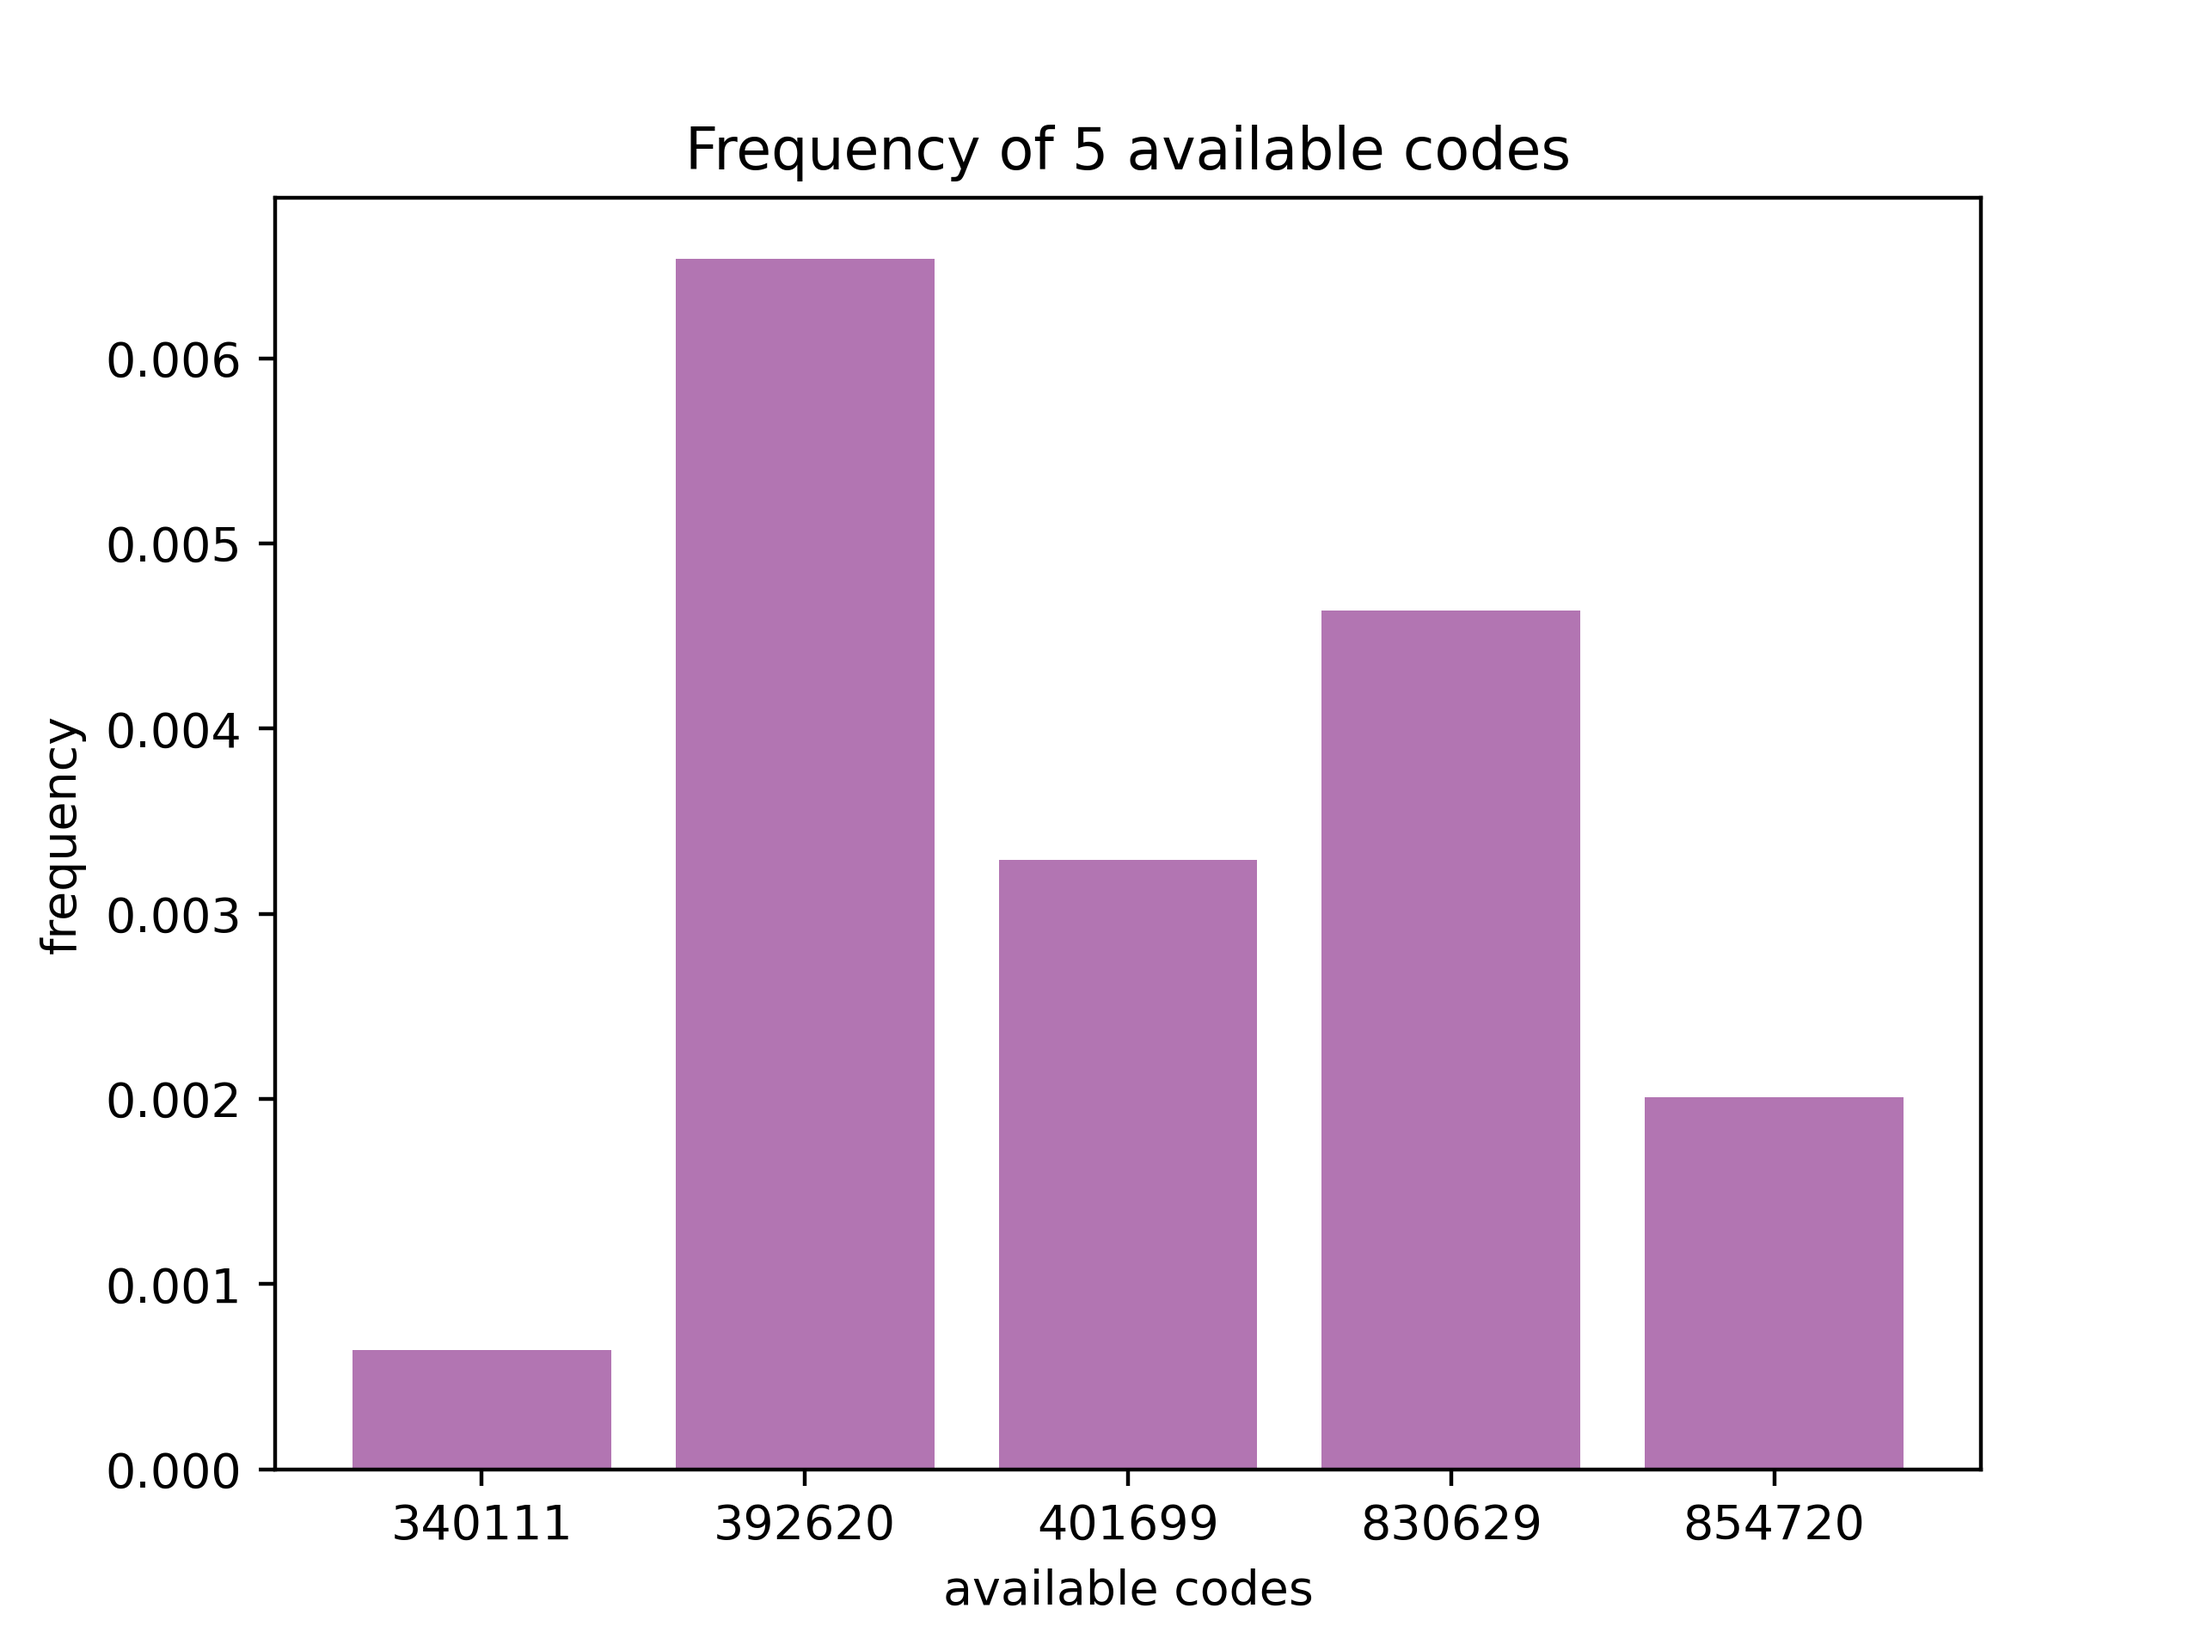
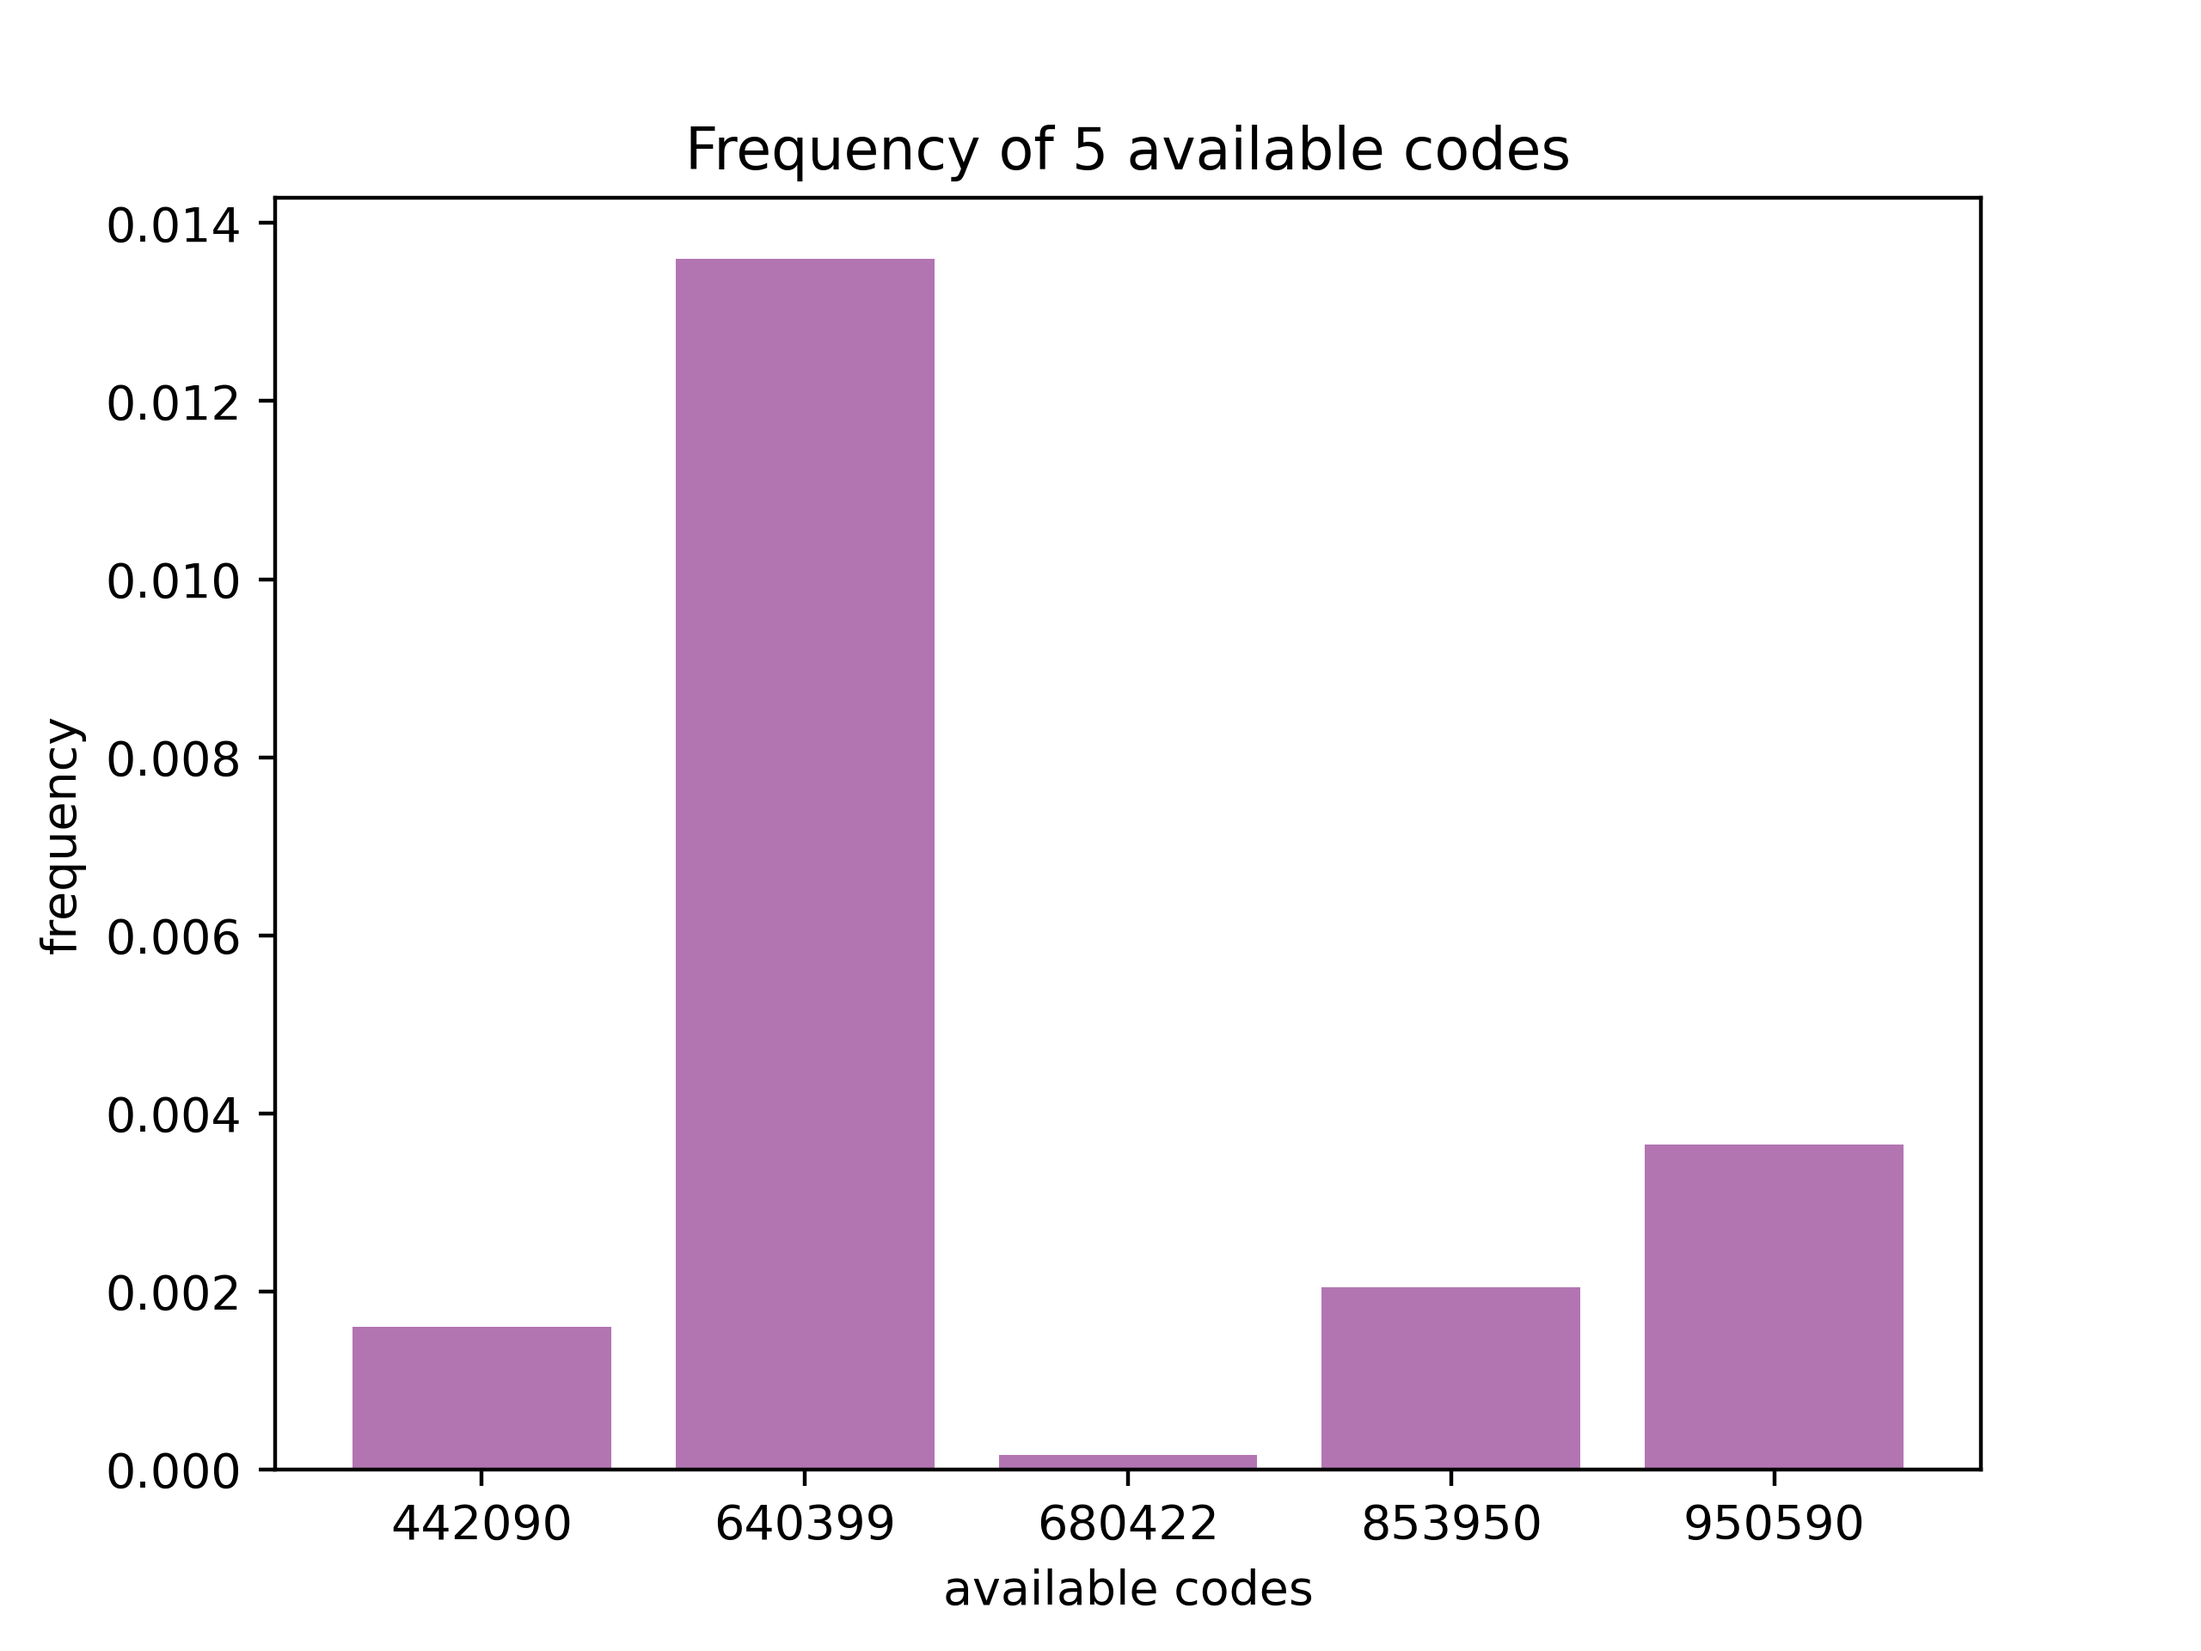
verification

diff --git a/src/exercice2/exercice2.py b/src/exercice2/exercice2.py
@@ -153,19 +153,19 @@ def main():
     Available_Codes=pd.read_csv("data/codes_disponibles.csv", usecols=["codes"])
     All_Codes=pd.read_csv("data/tous_les_codes.csv", usecols=["codes"])
 
-    print("The percentage of available codes out of all codes is :", calculate_percentage(Available_Codes, All_Codes))
+    print("The percentage of available codes out of all codes is :", calculate_percentage(Available_Codes, All_Codes) ,"\n")
     
     #we use the rand_available function to have a random number to test the frequency function
+    rand_code=rand_available(Available_Codes)
+    print("the frequency of the code ", rand_code, " is :", frequency(rand_code,Available_Codes) ,"\n")
 
-    print("the frequency is:",frequency(rand_available(Available_Codes),Available_Codes))
-
-    print("---------Display the graph that compares the frequency of 5 available codes-------")
+    print("The graph that compares the frequency of 5 available codes is available at images/frequency.png ")
     
     # create a list of 5 random available codes 
     tab=[ rand_available(Available_Codes) for i in range(5) ]
     display_frequency(tab,Available_Codes)
 
-    print("display the statistique parameter graph")
+    print("The graph that display the statistique parameter is available at images/statistiques.png")
     display_statistique_parameters(Available_Codes)
 
 

diff --git a/README.md b/README.md
@@ -71,7 +71,7 @@ _examples :_
 
 MIT
 
-[Test Technique]: "./Exercices_Python_dev_data_2022.pdf"
+[Test Technique]("file://Exercices_Python_dev_data_2022.pdf")
 
-[Exercice 1]: "./src\exercice1"
-[Exercice 2]: "./src\exercice2"
+[Exercice 1]("file://src\exercice1")
+[Exercice 2]("file://src\exercice2")
